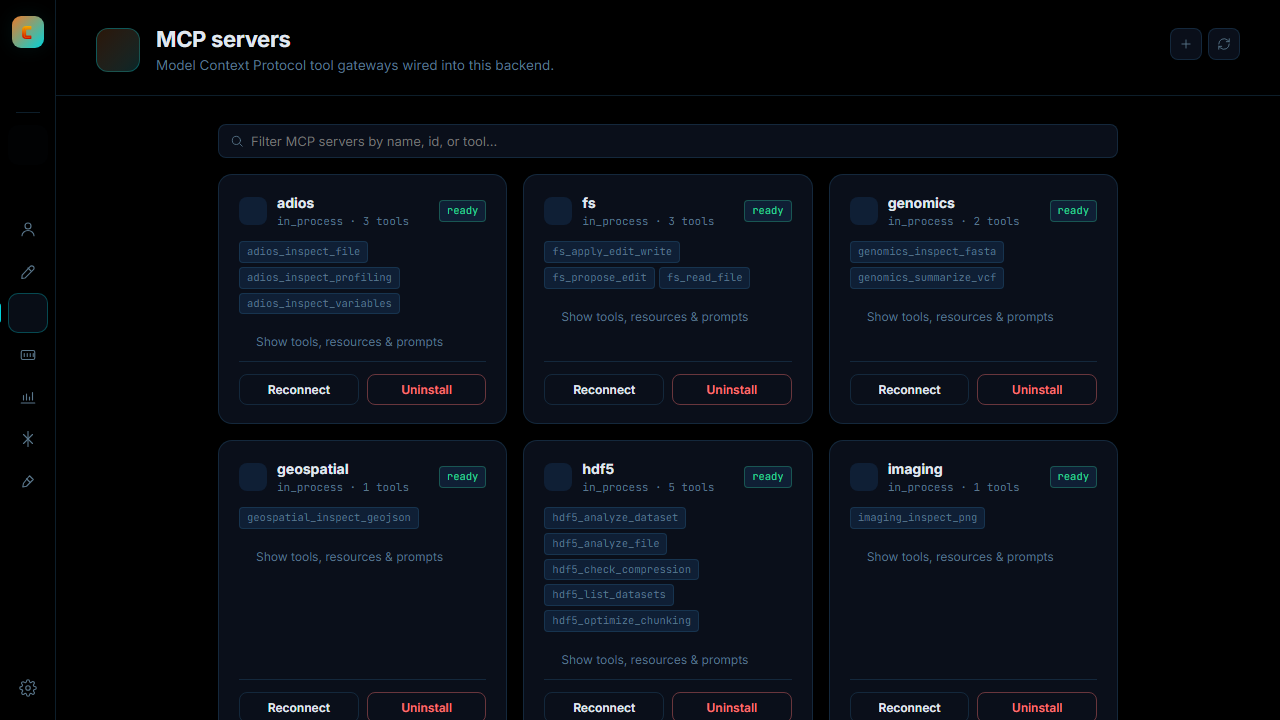
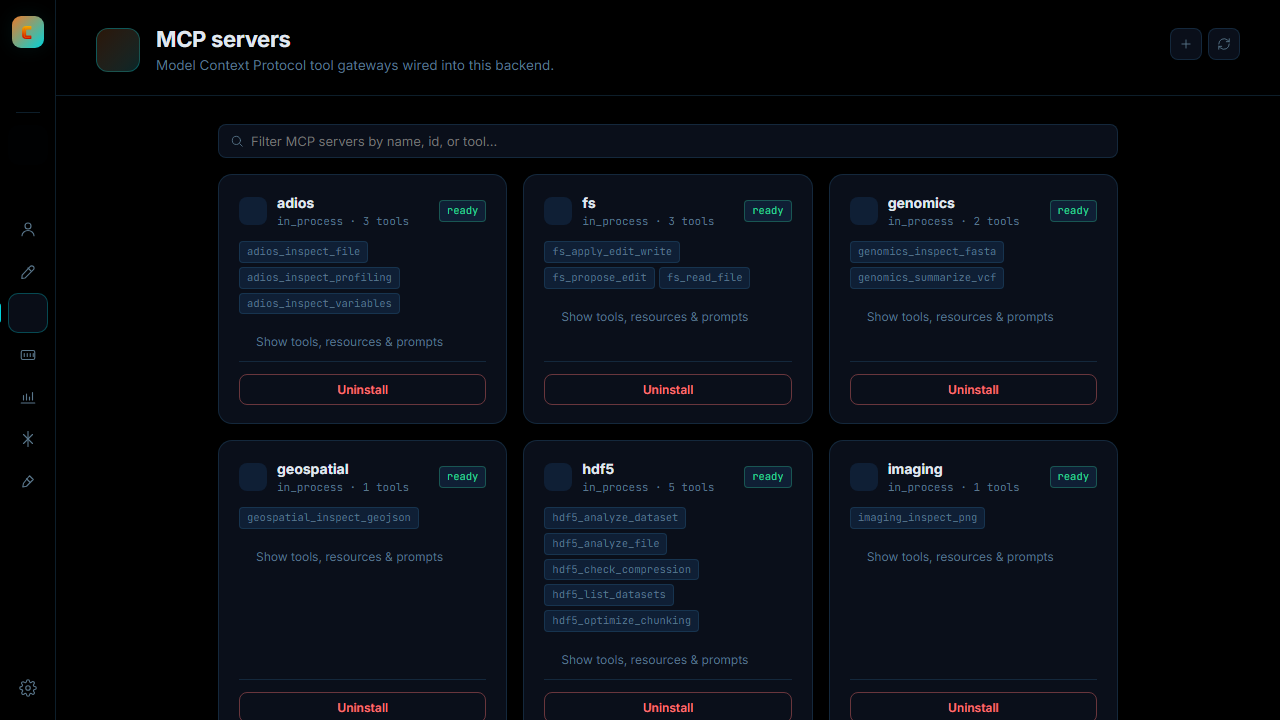
fix(web): remove dead MCP Reconnect button (clio has no route, #520)
W2 ABSENT: POST /v1/mcp/servers/{id}/reconnect 404s — no handler in clio
source. The Reconnect button on every MCP card always failed with an error
toast. Filed iowarp/clio-agent#520 and removed the button (kept the
reconnectMcpServer client method for forward-compat when the route lands).
typecheck + lint + MCP audit green.

diff --git a/apps/web/src/routes/discovery/McpPage.tsx b/apps/web/src/routes/discovery/McpPage.tsx
@@ -35,27 +35,9 @@ export function McpPage(props: McpPageProps) {
     }
   }
 
-  async function reconnect(id: string, name: string) {
-    setBusy(id);
-    try {
-      await props.client.reconnectMcpServer(id);
-      toast.push({
-        tone: 'info',
-        title: 'Reconnect requested',
-        body: name,
-        duration: 2400,
-      });
-      void refetch();
-    } catch (e) {
-      toast.push({
-        tone: 'error',
-        title: 'Reconnect failed',
-        body: e instanceof Error ? e.message : String(e),
-      });
-    } finally {
-      setBusy(null);
-    }
-  }
+  // NOTE: MCP reconnect is intentionally not exposed — clio has no
+  // POST /v1/mcp/servers/{id}/reconnect route (404). Tracked upstream:
+  // iowarp/clio-agent#520. Re-add the button when that route lands.
   const all = () => data()?.servers ?? [];
   const items = () => {
     const q = query().trim().toLowerCase();
@@ -119,7 +101,6 @@ export function McpPage(props: McpPageProps) {
               s={s}
               client={props.client}
               busy={busy() === s.id}
-              onReconnect={() => reconnect(s.id, s.name)}
               onUninstall={() => uninstall(s.id, s.name)}
             />
           )}
@@ -279,7 +260,6 @@ function McpServerCard(props: {
   s: McpServerInfo;
   client: Client;
   busy: boolean;
-  onReconnect: () => void;
   onUninstall: () => void;
 }) {
   const tone = () => {
@@ -446,15 +426,6 @@ function McpServerCard(props: {
         </div>
       </Show>
       <div class="dp__card-actions">
-        <button
-          type="button"
-          class="dp__card-btn"
-          disabled={props.busy}
-          onClick={props.onReconnect}
-          data-testid={`mcp-reconnect-${props.s.id}`}
-        >
-          {props.busy ? 'Working…' : 'Reconnect'}
-        </button>
         <button
           type="button"
           class="dp__card-btn dp__card-btn--danger"

diff --git a/apps/STATUS.md b/apps/STATUS.md
@@ -77,7 +77,7 @@ Each item: fix → verify (live where possible) → commit (STATUS in same commi
 **🔴 WIRE-FIX Tier C (latent/cosmetic):** rewind has no UI call site (http.ts:642); `files/read` expects JSON but clio returns raw text (latent); frame list reads `token_count`/`summary` vs clio `tokens_estimated` (dead chips); schedule list reads `prompt`/`next_run_at` vs clio `question`/`last_fired_at`/`fire_count` (dead chips); `user_question.resumed` reads `p.question` (ids-only payload → should refetch/clear); blueprint/pack `*_id:null` clear → clio 400; `UserQuestion` type omits `answer_metadata`; subagent reducer reads `agent_name` then `agent_id` (works via fallback).
 
 **🟠 ABSENT-FILE-ISSUE (proven absent in clio → file iowarp/clio-agent issue + remove/hide dead UI):**
-- [ ] `POST mcp/servers/{id}/reconnect` — Reconnect button on EVERY card 404s (always-visible). Remove button + file issue.
+- [x] `POST mcp/servers/{id}/reconnect` — Reconnect button on EVERY card 404'd (always-visible). **DONE**: filed **iowarp/clio-agent#520** (proven absent: 404 + no route in source) and removed the dead button from McpPage (kept the client method for forward-compat). typecheck+lint+MCP audit green.
 - [ ] latent 404s: mcp `resources/read`, `resources/subscribe`, `prompts/get` (render only when a server exposes them); `resource_templates` (swallowed).
 - [ ] dead SSE reducer branches clio never emits: `tool.call.progress`, `cost.updated` (cost rides message.completed), `notification` (client-synthesized), `session.summarized`, `session.created`, `message.error` (rides message.completed). Remove or doc forward-compat.
 
